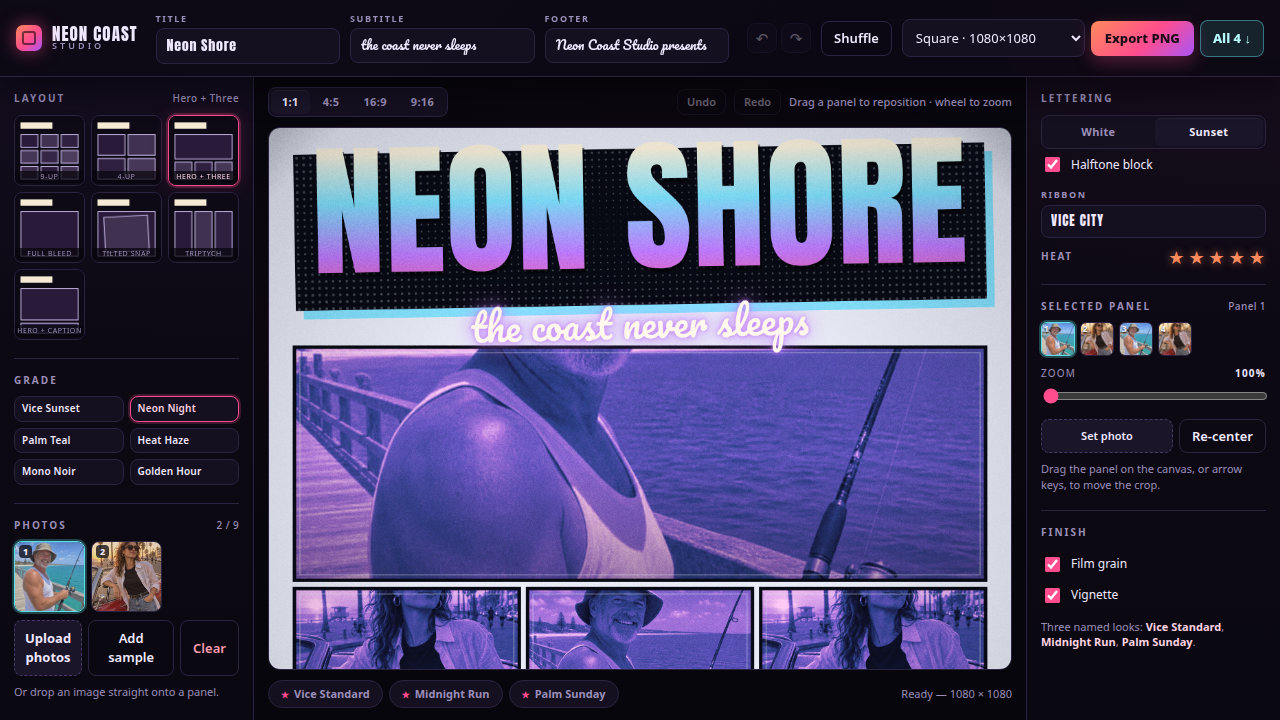
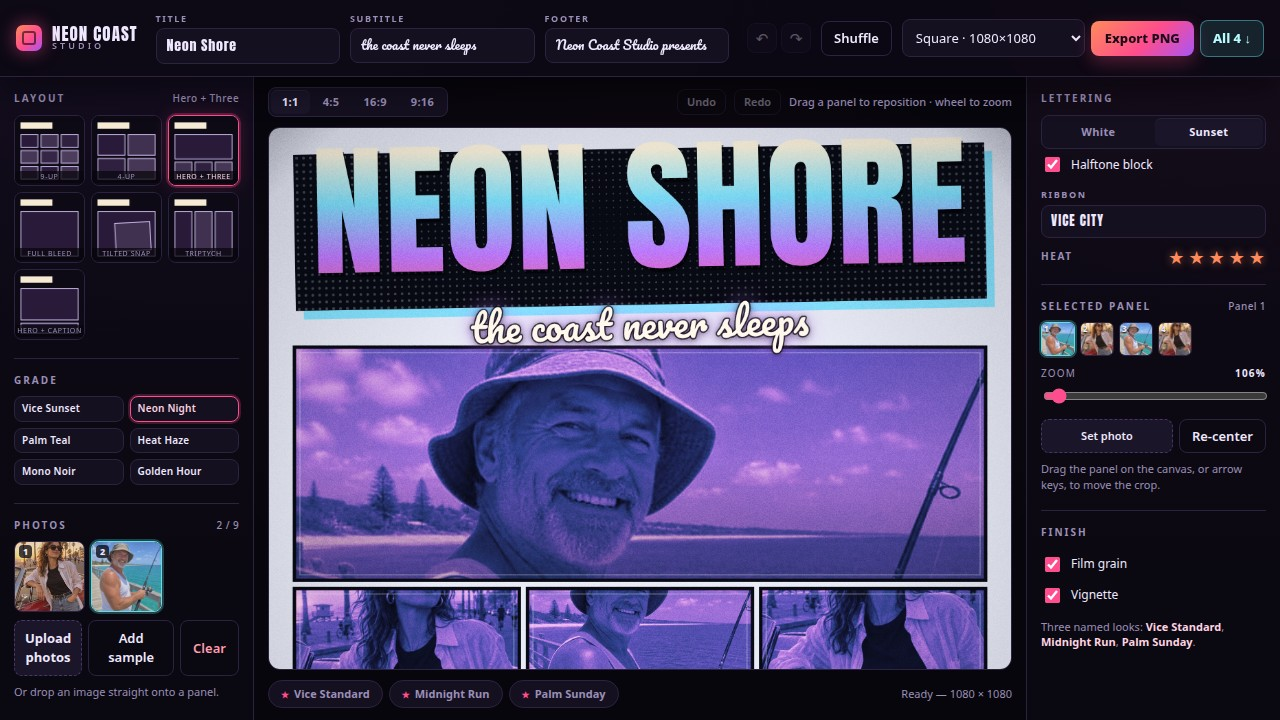
Neon Coast Studio: review fixes + re-shoot

diff --git a/app/src/main.js b/app/src/main.js
@@ -71,7 +71,8 @@ const $ = (id) => document.getElementById(id);
 const canvas = $('cover');
 const ctx = canvas.getContext('2d');
 const statusEl = $('status');
-const status = (message) => { statusEl.textContent = message; };
+let pendingStatus = null;
+const status = (message) => { pendingStatus = null; statusEl.textContent = message; };
 
 /* ------------------------------------------------------------------ photos */
 
@@ -146,7 +147,8 @@ function currentSize() {
   return EXPORT_SIZES.find((s) => s.id === state.preview) ?? EXPORT_SIZES[0];
 }
 
-function queueRedraw() {
+function queueRedraw(message = null) {
+  if (message) pendingStatus = message;
   if (redrawQueued) return;
   redrawQueued = true;
   requestAnimationFrame(() => {
@@ -157,7 +159,8 @@ function queueRedraw() {
       canvas.height = h;
     }
     drawCover(ctx, state, images, w, h);
-    statusEl.textContent = `Ready — ${w} × ${h}`;
+    statusEl.textContent = pendingStatus ?? `Ready — ${w} × ${h}`;
+    pendingStatus = null;
   });
 }
 
@@ -168,6 +171,7 @@ function snapshot() {
     layout: state.layout, grade: state.grade, title: state.title, subtitle: state.subtitle,
     footer: state.footer, badge: state.badge, stars: state.stars, titleStyle: state.titleStyle,
     halftone: state.halftone, grain: state.grain, vignette: state.vignette,
+    photos: state.photos.map((p) => ({ id: p.id, name: p.name, url: p.url })),
     slots: state.slots.map((s) => ({ photo: s.photo, zoom: s.zoom, ox: s.ox, oy: s.oy })),
   });
 }
@@ -175,6 +179,7 @@ function snapshot() {
 function restore(text) {
   const s = JSON.parse(text);
   Object.assign(state, s);
+  state.photos = s.photos ?? state.photos;
   ensureSlots();
   syncControls();
   queueRedraw();
@@ -193,7 +198,9 @@ function pushHistory() {
 }
 
 function commit(message) {
-  if (pushHistory() && message) status(message);
+  if (!pushHistory() || !message) return;
+  if (redrawQueued) pendingStatus = message;
+  else status(message);
 }
 
 function undo() {
@@ -203,7 +210,7 @@ function undo() {
   restore(history.pop());
   lastSnap = snapshot();
   updateHistoryButtons();
-  status('Undo');
+  queueRedraw('Undo');
 }
 
 function redo() {
@@ -212,7 +219,7 @@ function redo() {
   restore(future.pop());
   lastSnap = snapshot();
   updateHistoryButtons();
-  status('Redo');
+  queueRedraw('Redo');
 }
 
 function updateHistoryButtons() {
@@ -283,10 +290,10 @@ function download(canvasEl, size) {
 }
 
 async function exportSize(size) {
-  statusEl.textContent = `Rendering ${size.file}…`;
+  status(`Rendering ${size.file}…`);
   const rendered = renderToCanvas(state, images, size.w, size.h);
   const ok = await download(rendered, size);
-  statusEl.textContent = ok ? `Saved neon-coast-${size.file}.png` : 'Export failed';
+  status(ok ? `Saved neon-coast-${size.file}.png` : 'Export failed');
   return ok;
 }
 
@@ -295,7 +302,7 @@ async function exportAll() {
     await exportSize(size);
     await new Promise((r) => setTimeout(r, 380));
   }
-  statusEl.textContent = 'Saved all four PNGs';
+  status('Saved all four PNGs');
 }
 
 /* ------------------------------------------------------------------- UI */
@@ -590,8 +597,7 @@ function bind() {
     btn.addEventListener('click', () => {
       state.preview = btn.dataset.size;
       syncControls();
-      queueRedraw();
-      statusEl.textContent = `Preview ${currentSize().label}`;
+      queueRedraw(`Preview ${currentSize().label}`);
     });
   }
 
@@ -609,15 +615,14 @@ function bind() {
       return;
     }
     if (typing) return;
-    const rects = panelRects();
     const slot = state.slots[state.selected];
     if (!slot) return;
     const step = e.shiftKey ? 0.16 : 0.05;
     let moved = false;
-    if (e.key === 'ArrowLeft') { slot.ox = Math.max(-1, slot.ox - step); moved = true; }
-    if (e.key === 'ArrowRight') { slot.ox = Math.min(1, slot.ox + step); moved = true; }
-    if (e.key === 'ArrowUp') { slot.oy = Math.max(-1, slot.oy - step); moved = true; }
-    if (e.key === 'ArrowDown') { slot.oy = Math.min(1, slot.oy + step); moved = true; }
+    if (e.key === 'ArrowLeft') { slot.ox = Math.min(1, slot.ox + step); moved = true; }
+    if (e.key === 'ArrowRight') { slot.ox = Math.max(-1, slot.ox - step); moved = true; }
+    if (e.key === 'ArrowUp') { slot.oy = Math.min(1, slot.oy + step); moved = true; }
+    if (e.key === 'ArrowDown') { slot.oy = Math.max(-1, slot.oy - step); moved = true; }
     if (moved) {
       e.preventDefault();
       queueRedraw();
@@ -749,8 +754,6 @@ function bindCanvas() {
     const scaleY = canvas.height / box.height;
     const slot = state.slots[drag.index];
     const r = drag.rect;
-    const slackX = Math.max(1, r.w * 0.02);
-    const slackY = Math.max(1, r.h * 0.02);
     const photo = slot.photo ? images.get(slot.photo) : null;
     const iw = photo ? photo.naturalWidth || photo.width : 1;
     const ih = photo ? photo.naturalHeight || photo.height : 1;
@@ -759,10 +762,8 @@ function bindCanvas() {
     const dh = ih * cover;
     const realSlackX = Math.max(1, (dw - r.w) / 2);
     const realSlackY = Math.max(1, (dh - r.h) / 2);
-    void slackX;
-    void slackY;
-    slot.ox = Math.max(-1, Math.min(1, drag.ox + ((e.clientX - drag.startX) * scaleX) / realSlackX));
-    slot.oy = Math.max(-1, Math.min(1, drag.oy + ((e.clientY - drag.startY) * scaleY) / realSlackY));
+    slot.ox = Math.max(-1, Math.min(1, drag.ox - ((e.clientX - drag.startX) * scaleX) / realSlackX));
+    slot.oy = Math.max(-1, Math.min(1, drag.oy - ((e.clientY - drag.startY) * scaleY) / realSlackY));
     queueRedraw();
   });
 
@@ -868,10 +869,13 @@ async function boot() {
   lastSnap = snapshot();
   updateHistoryButtons();
   window.addEventListener('beforeunload', (e) => {
-    if (state.photos.length) return;
-    e.preventDefault();
+    if (!state.photos.length) return;
+    if (snapshot() !== lastSnap) {
+      e.preventDefault();
+      e.returnValue = '';
+    }
   });
-  status('Ready — drop a photo on any panel');
+  queueRedraw('Ready — drop a photo on any panel');
 }
 
 boot().catch((err) => {

diff --git a/app/src/render.js b/app/src/render.js
@@ -112,35 +112,6 @@ export function splitTitle(title) {
   return [best.a, best.b];
 }
 
-/** Chooses the title's lines and point size for the masthead box. */
-export function fitTitle(ctx, title, box, forceSplit) {
-  const oneLine = splitTitle(title).join(' ');
-  const words = splitTitle(title);
-  const tracking = 0.008;
-  const widthFor = (line, size) => measure(ctx, line, size, TITLE_FACE, tracking);
-  const fitOne = () => {
-    let lo = 8;
-    let hi = Math.max(12, box.h);
-    for (let i = 0; i < 26; i++) {
-      const mid = (lo + hi) / 2;
-      if (widthFor(oneLine, mid) <= box.w && mid * 1.04 <= box.h) lo = mid;
-      else hi = mid;
-    }
-    return lo;
-  };
-  const fitLines = (lines) => {
-    const widest = Math.max(...lines.map((l) => widthFor(l, 100)));
-    const byW = (box.w / Math.max(1, widest)) * 100;
-    const byH = (box.h * 0.98) / (lines.length * 1.0);
-    return Math.min(byW, byH);
-  };
-  const single = fitOne();
-  const multi = words.length > 1 ? fitLines(words) : 0;
-  if (forceSplit && multi > single * 0.68) return { lines: words, size: multi };
-  if (multi > single * 1.16) return { lines: words, size: multi };
-  return { lines: [oneLine], size: single };
-}
-
 let grainTile = null;
 function grainPattern(ctx) {
   if (!grainTile) {
@@ -329,11 +300,33 @@ function drawMasthead(ctx, state, plan, palette, size) {
   const lineH = fsize * 1.01;
   const blockW = m.w;
   const blockH = lines.length * lineH + pad * 0.95;
+
+  const subText = (state.subtitle || '').trim();
+  let ss = 0;
+  if (hasSub) {
+    ss = Math.min(blockH * 0.30, subBand * 0.80, m.w * 0.11);
+    ss = Math.max(ss, 11);
+    while (measure(ctx, subText, ss, SCRIPT_FACE) > m.w * 0.98 && ss > 10) ss -= 1;
+  }
+  const subGap = hasSub ? subBand * 0.18 : 0;
+  const groupH = blockH + (hasSub ? subGap + ss : 0);
   const bx = m.x;
-  const by = m.y + Math.max(0, (boxH - blockH) * 0.45);
+  const by = m.y + Math.max(0, (m.h - groupH) / 2);
   const angle = plan.landscape ? 0 : -0.018;
 
-  halftoneSlab(ctx, bx, by, blockW, blockH, angle, palette);
+  if (state.halftone !== false) halftoneSlab(ctx, bx, by, blockW, blockH, angle, palette);
+  else {
+    ctx.save();
+    ctx.translate(bx + blockW / 2, by + blockH / 2);
+    ctx.rotate(angle);
+    ctx.fillStyle = palette.ink;
+    ctx.fillRect(-blockW / 2, -blockH / 2, blockW, blockH);
+    ctx.strokeStyle = rgba(palette.accent, 0.85);
+    ctx.lineWidth = Math.max(2, blockH * 0.014);
+    ctx.strokeRect(-blockW / 2 + ctx.lineWidth, -blockH / 2 + ctx.lineWidth,
+                   blockW - ctx.lineWidth * 2, blockH - ctx.lineWidth * 2);
+    ctx.restore();
+  }
 
   ctx.save();
   ctx.translate(bx + blockW / 2, by + blockH / 2);
@@ -363,15 +356,7 @@ function drawMasthead(ctx, state, plan, palette, size) {
   ctx.restore();
 
   if (hasSub) {
-    const raw = state.subtitle.trim();
-    let ss = Math.min(blockH * 0.30, subBand * 0.80, m.w * 0.11);
-    ss = Math.max(ss, 11);
-    let sw = measure(ctx, raw, ss, SCRIPT_FACE);
-    while (sw > m.w * 0.98 && ss > 10) {
-      ss -= 1;
-      sw = measure(ctx, raw, ss, SCRIPT_FACE);
-    }
-    const sy = Math.min(by + blockH + subBand * 0.52, m.y + m.h - ss * 0.45);
+    const sy = Math.min(by + blockH + subGap + ss * 0.55, m.y + m.h - ss * 0.45);
     ctx.save();
     ctx.translate(m.x + m.w / 2, sy);
     ctx.rotate(-0.026);
@@ -381,10 +366,18 @@ function drawMasthead(ctx, state, plan, palette, size) {
     ctx.shadowColor = palette.glow;
     ctx.shadowBlur = ss * 0.55;
     ctx.fillStyle = palette.glow;
-    ctx.fillText(raw, 0, 0);
-    ctx.shadowBlur = ss * 0.14;
+    ctx.fillText(subText, 0, 0);
+    // A dark outline keeps the script legible on pale grades (Golden Hour cream).
+    ctx.shadowColor = 'rgba(10,6,18,0.55)';
+    ctx.shadowBlur = ss * 0.22;
+    ctx.shadowOffsetY = ss * 0.05;
+    ctx.lineWidth = Math.max(1, ss * 0.07);
+    ctx.strokeStyle = 'rgba(10,6,18,0.72)';
+    ctx.strokeText(subText, 0, 0);
+    ctx.shadowOffsetY = 0;
+    ctx.shadowBlur = ss * 0.12;
     ctx.fillStyle = '#fff8ec';
-    ctx.fillText(raw, 0, 0);
+    ctx.fillText(subText, 0, 0);
     ctx.restore();
   }
 }
@@ -453,7 +446,7 @@ function drawFooter(ctx, state, plan, palette, overlay = false) {
   ctx.stroke();
 
   const ribY = top + pad * 1.1;
-  const ribW = drawRibbon(ctx, state.badge, f.x, ribY, ribbonH, overlay ? { ...palette, ink: palette.paper, paper: palette.ink } : palette);
+  drawRibbon(ctx, state.badge, f.x, ribY, ribbonH, overlay ? { ...palette, ink: palette.paper, paper: palette.ink } : palette);
 
   const starR = Math.max(5, ribbonH * 0.26);
   const starsW = starR * 2 + 4 * starR * 2.6;
@@ -483,7 +476,6 @@ function drawFooter(ctx, state, plan, palette, overlay = false) {
     ctx.letterSpacing = '0px';
   }
   ctx.restore();
-  void ribW;
 }
 
 function drawCaptionBand(ctx, state, rect, palette) {

diff --git a/app/src/shots.js b/app/src/shots.js
@@ -26,9 +26,21 @@ export async function runShot(shot, query, studio) {
     .map((name) => state.photos.find((p) => p.name === name)?.id)
     .filter(Boolean);
   if (ids.length) {
-    const n = state.slots.length;
-    for (let i = 0; i < n; i++) {
-      state.slots[i] = { photo: ids[i % ids.length], zoom: 1, ox: 0, oy: 0 };
+    const TABLES = {
+      nine: [ // [photoIdx, zoom, ox, oy] — non-alternating, varied
+        [0, 1.10,  0.30, -0.20], [0, 1.02,  0.05,  0.10], [0, 1.22, -0.28,  0.18],
+        [1, 1.16,  0.22, -0.30], [1, 1.30, -0.12,  0.26], [1, 1.06,  0.34,  0.05],
+        [0, 1.26, -0.20,  0.30], [1, 1.12,  0.10, -0.22], [0, 1.36,  0.28, -0.30],
+      ],
+      hero3: [[1, 1.06, 0.00, -0.78], [0, 1.18, 0.24, -0.10], [1, 1.12, -0.20, 0.12], [0, 1.22, 0.10, 0.16]],
+      tilt:  [[1, 1.00, 0.00, 0.00], [0, 1.24, 0.32, -0.24]],
+      four:  [[0, 1.14, 0.20, -0.18], [1, 1.06, -0.18, 0.14], [1, 1.20, 0.26, 0.20], [0, 1.02, -0.10, -0.06]],
+      triptych: [[1, 1.18, 0.20, -0.26], [0, 1.08, -0.16, 0.10], [1, 1.28, 0.28, 0.24]],
+    };
+    const table = TABLES[pick('layout', 'nine')] ?? TABLES.nine;
+    for (let i = 0; i < state.slots.length; i++) {
+      const [pi, zoom, ox, oy] = table[i % table.length];
+      state.slots[i] = { photo: ids[pi % ids.length], zoom, ox, oy };
     }
   }
 

diff --git a/app/src/layouts.js b/app/src/layouts.js
@@ -63,10 +63,10 @@ export function layoutPanels(id, area, gap) {
     case 'tilt': {
       const backdrop = rect(area.x, area.y, area.w, area.h);
       const snap = rect(
-        area.x + area.w * 0.115,
-        area.y + area.h * 0.10,
-        area.w * 0.77,
-        area.h * 0.80,
+        area.x + area.w * 0.30,
+        area.y + area.h * 0.24,
+        area.w * 0.62,
+        area.h * 0.64,
         { rotate: -0.055, snapshot: true },
       );
       return [backdrop, snap];
